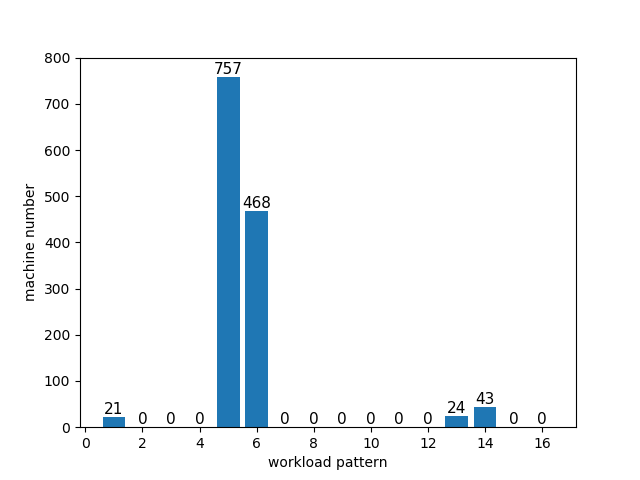
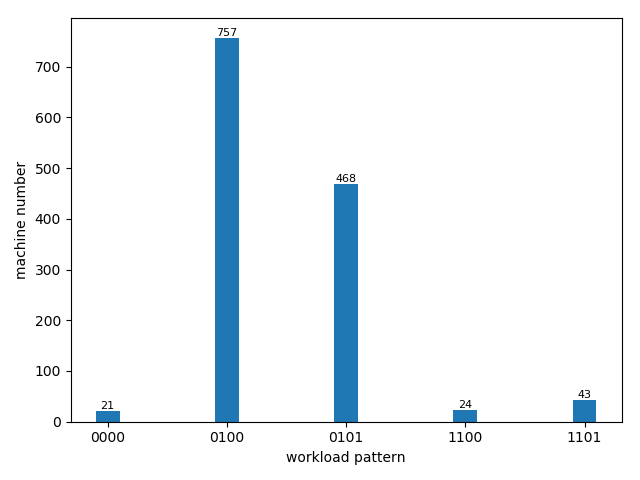
modify some figs

diff --git a/mysql_analysis/batch_job/kmeans_job_category_cpu_mem_job_duration.py b/mysql_analysis/batch_job/kmeans_job_category_cpu_mem_job_duration.py
@@ -1,0 +1,144 @@
+import matplotlib.pyplot as plt
+import MySQLdb as mdb
+import numpy as np
+from mpl_toolkits.axes_grid1.inset_locator import inset_axes
+
+
+def graph():
+    # 连接数据库
+    conn = mdb.connect(host='127.0.0.1', port=3306, user='root', passwd='root', db='alibaba_trace', charset='utf8')
+
+    # 如果使用事务引擎，可以设置自动提交事务，或者在每次操作完成后手动提交事务conn.commit()
+    conn.autocommit(1)  # conn.autocommit(True)
+
+    # 使用cursor()方法获取操作游标
+    cursor = conn.cursor()
+    # 因该模块底层其实是调用CAPI的，所以，需要先得到当前指向数据库的指针。
+    try:
+        cursor.execute(
+            "select job_id, job_duration, avg_cpu, avg_mem from batch_job_category where category_1 ='sss'"
+        )
+        records = cursor.fetchall()
+        sss_records = list(records)
+
+        cursor.execute(
+            "select job_id, job_duration, avg_cpu, avg_mem from batch_job_category where category_1 ='sms'"
+        )
+        records = cursor.fetchall()
+        sms_records = list(records)
+
+        cursor.execute(
+            "select job_id, job_duration, avg_cpu, avg_mem from batch_job_category where category_1 ='mss'"
+        )
+        records = cursor.fetchall()
+        mss_records = list(records)
+
+        cursor.execute(
+            "select job_id, job_duration, avg_cpu, avg_mem from batch_job_category where category_1 ='mms'"
+        )
+        records = cursor.fetchall()
+        mms_records = list(records)
+
+    except:
+        import traceback
+        traceback.print_exc()
+        # 发生错误时回滚
+        conn.rollback()
+    finally:
+        # 关闭游标连接
+        cursor.close()
+        # 关闭数据库连接
+        conn.close()
+
+    res = []
+    res[:] = map(list, sss_records)
+    sss_job_id = [x[0] for x in res]
+    sss_job_duration = [x[1] for x in res]
+    sss_avg_cpu = [x[2] for x in res]
+    sss_avg_mem = [x[3] for x in res]
+
+    res[:] = map(list, sms_records)
+    sms_job_id = [x[0] for x in res]
+    sms_job_duration = [x[1] for x in res]
+    sms_avg_cpu = [x[2] for x in res]
+    sms_avg_mem = [x[3] for x in res]
+
+    res[:] = map(list, mss_records)
+    mss_job_id = [x[0] for x in res]
+    mss_job_duration = [x[1] for x in res]
+    mss_avg_cpu = [x[2] for x in res]
+    mss_avg_mem = [x[3] for x in res]
+
+    res[:] = map(list, mms_records)
+    mms_job_id = [x[0] for x in res]
+    mms_job_duration = [x[1] for x in res]
+    mms_avg_cpu = [x[2] for x in res]
+    mms_avg_mem = [x[3] for x in res]
+
+
+    fig = plt.figure()
+    ax1 = fig.add_subplot(1, 1, 1)
+    # job duration
+    hist, bin_edges = np.histogram(sss_job_duration, bins=100)
+    cdf = np.cumsum(hist / sum(hist))
+    ax1.plot(bin_edges[1:], cdf, label='sss')
+    hist, bin_edges = np.histogram(sms_job_duration, bins=100)
+    cdf = np.cumsum(hist / sum(hist))
+    ax1.plot(bin_edges[1:], cdf, label='sms')
+    hist, bin_edges = np.histogram(mss_job_duration, bins=100)
+    cdf = np.cumsum(hist / sum(hist))
+    ax1.plot(bin_edges[1:], cdf, label='mss')
+    hist, bin_edges = np.histogram(mms_job_duration, bins=100)
+    cdf = np.cumsum(hist / sum(hist))
+    ax1.plot(bin_edges[1:], cdf, label='mms')
+    ax1.set_xlabel("job duration(h)")
+    ax1.set_ylabel("portion of job")
+    ax1.legend(loc='lower right')
+    plt.savefig('../../imgs_mysql/cdf_batch_job_category_job_duration')
+    plt.show()
+
+    fig = plt.figure()
+    ax1 = fig.add_subplot(1, 1, 1)
+    # cpu
+    hist, bin_edges = np.histogram(sss_avg_cpu, bins=100)
+    cdf = np.cumsum(hist / sum(hist))
+    ax1.plot(bin_edges[1:], cdf, label='sss')
+    hist, bin_edges = np.histogram(sms_avg_cpu, bins=100)
+    cdf = np.cumsum(hist / sum(hist))
+    ax1.plot(bin_edges[1:], cdf, label='sms')
+    hist, bin_edges = np.histogram(mss_avg_cpu, bins=100)
+    cdf = np.cumsum(hist / sum(hist))
+    ax1.plot(bin_edges[1:], cdf, label='mss')
+    hist, bin_edges = np.histogram(mms_avg_cpu, bins=100)
+    cdf = np.cumsum(hist / sum(hist))
+    ax1.plot(bin_edges[1:], cdf, label='mms')
+    ax1.set_xlabel("average cpu per job")
+    ax1.set_ylabel("portion of job")
+    ax1.legend(loc='lower right')
+    plt.savefig('../../imgs_mysql/cdf_batch_job_category_cpu')
+    plt.show()
+
+    fig = plt.figure()
+    ax1 = fig.add_subplot(1, 1, 1)
+    # memory
+    hist, bin_edges = np.histogram(sss_avg_mem, bins=100)
+    cdf = np.cumsum(hist / sum(hist))
+    ax1.plot(bin_edges[1:], cdf, label='sss')
+    hist, bin_edges = np.histogram(sms_avg_mem, bins=100)
+    cdf = np.cumsum(hist / sum(hist))
+    ax1.plot(bin_edges[1:], cdf, label='sms')
+    hist, bin_edges = np.histogram(mss_avg_mem, bins=100)
+    cdf = np.cumsum(hist / sum(hist))
+    ax1.plot(bin_edges[1:], cdf, label='mss')
+    hist, bin_edges = np.histogram(mms_avg_mem, bins=100)
+    cdf = np.cumsum(hist / sum(hist))
+    ax1.plot(bin_edges[1:], cdf, label='mms')
+    ax1.set_xlabel("average memory per job")
+    ax1.set_ylabel("portion of job")
+    ax1.legend(loc='lower right')
+    plt.savefig('../../imgs_mysql/cdf_batch_job_category_mem')
+    plt.show()
+
+
+if __name__ == '__main__':
+    graph()

diff --git a/mysql_analysis/online_service/kmeans_instance_category_analysis.py b/mysql_analysis/online_service/kmeans_instance_category_analysis.py
@@ -13,11 +13,14 @@ def graph():
     # 使用cursor()方法获取操作游标
     cursor = conn.cursor()
     # 因该模块底层其实是调用CAPI的，所以，需要先得到当前指向数据库的指针。
-    list_records = []
+
+    # update container_machine_category_at_6 a set pattern = REPLACE(concat(a.sss,a.ssm,a.sms,a.smm,a.mss,a.msm,a.mms,a.mmm),',','')  where a.machineID = a.machineID
+
     try:
-        cursor.execute("select pattern, count(machineID) from workload_pattern group by pattern")
+        cursor.execute("select pattern, count(machineID) from container_machine_category_at_6 group by pattern ")
         records = cursor.fetchall()
         list_records = list(records)
+
     except:
         import traceback
         traceback.print_exc()
@@ -34,18 +37,18 @@ def graph():
     pattern = [x[0] for x in res]
     machine_number = [x[1] for x in res]
 
-    fig = plt.figure()
+    fig = plt.figure(figsize=(8, 5))
     ax1 = fig.add_subplot(1, 1, 1)
     # # 直方图
-    ax1.bar(pattern, machine_number, width=0.2)
-    ax1.set_xlabel('workload pattern')
+    ax1.bar(pattern, machine_number)
+    ax1.set_xlabel('pattern')
     ax1.set_ylabel('machine number')
     for a,b in zip(pattern, machine_number):
         ax1.text(a, b+0.05, '%d' % b , ha='center', va= 'bottom',fontsize=8)
-    # plt.setp(ax1.xaxis.get_majorticklabels(), rotation=90)
+    plt.setp(ax1.xaxis.get_majorticklabels(), rotation=90)
     plt.tight_layout()
 
-    plt.savefig("../../imgs_mysql/job_category_at_time")
+    plt.savefig("../../imgs_mysql/kmeans_instance_category_analysis")
     plt.show()
 
 if __name__ == '__main__':
